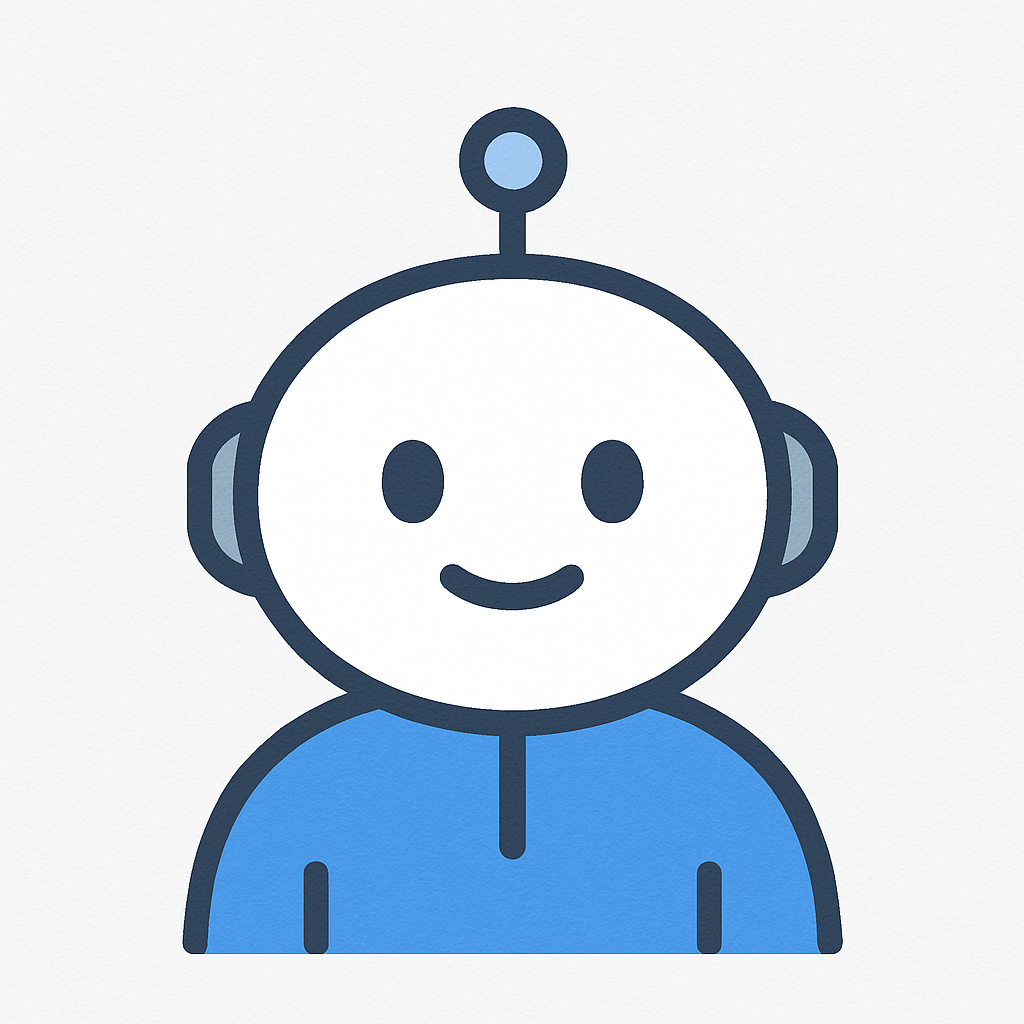
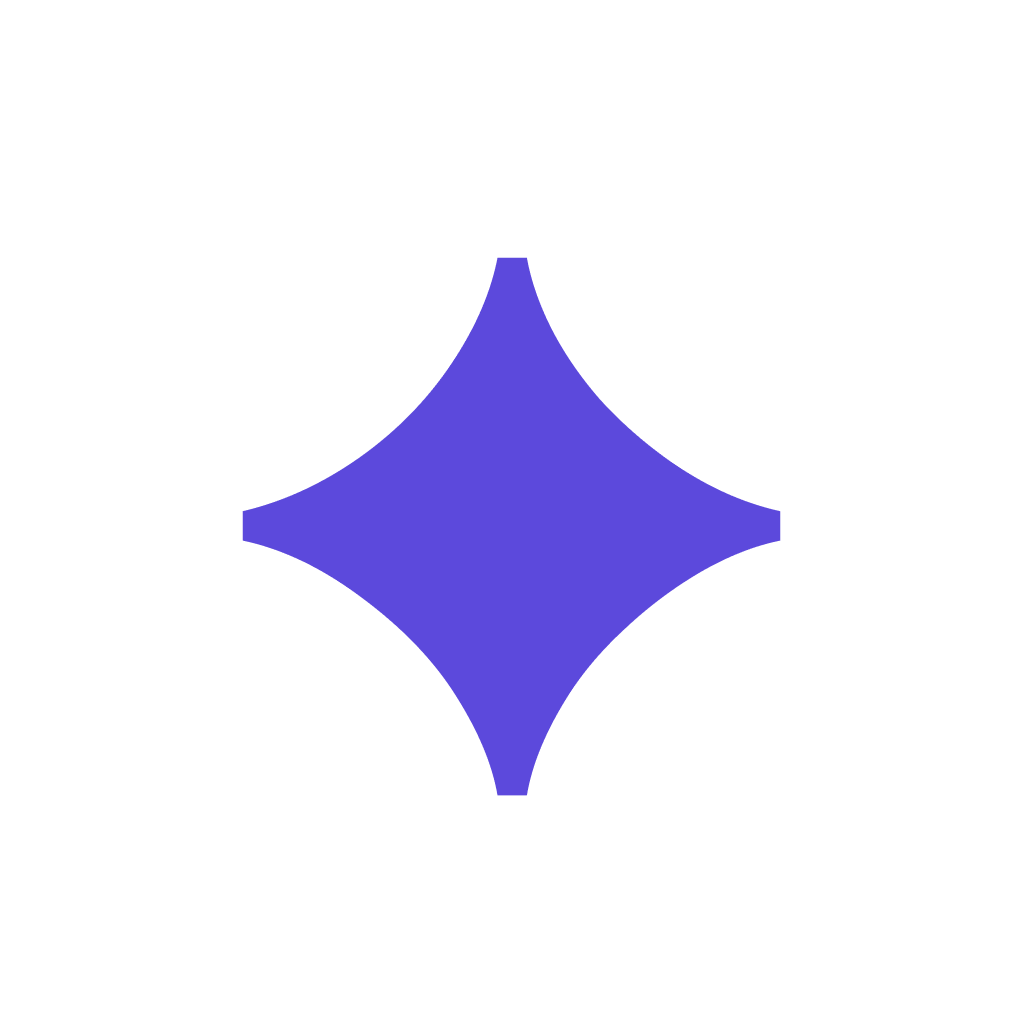
feat: update bot image, enhance chat UI, and improve message handling

Changed region(s): [[0.1562, 0.0938, 0.8438, 0.9375]]

diff --git a/src/App.jsx b/src/App.jsx
@@ -1,9 +1,15 @@
 import "./App.css";
-import BotImg from "/image.png";
 import { useRef, useState, useEffect } from "react";
 import { FontAwesomeIcon } from "@fortawesome/react-fontawesome";
 import { faPaperPlane } from "@fortawesome/free-solid-svg-icons";
 import { CohereClient } from "cohere-ai";
+
+const SUGGESTIONS = [
+  "Explain quantum computing simply",
+  "Write a haiku about coding",
+  "What's the best way to learn React?",
+  "Tell me a fun science fact",
+];
 
 function App() {
   const [input, setInput] = useState("");
@@ -15,12 +21,13 @@ function App() {
   const mesEnd = useRef(null);
 
   useEffect(() => {
-    mesEnd.current.scrollIntoView({ behavior: "smooth" });
+    mesEnd.current?.scrollIntoView({ behavior: "smooth" });
   }, [messages]);
 
   // Enter To Send Message
   const handleKey = async (e) => {
-    if (e.key === "Enter") {
+    if (e.key === "Enter" && !e.shiftKey) {
+      e.preventDefault();
       await handleSend();
     }
   };
@@ -30,12 +37,12 @@ function App() {
     token: import.meta.env.VITE_Api_Key,
   });
 
-  const handleSend = async () => {
-    if (input.trim()) {
-      setMessages([...messages, { text: input, sender: "user" }]);
+  const handleSend = async (overrideText = null) => {
+    const messageText = overrideText ?? input;
+    if (messageText.trim()) {
+      setMessages((prev) => [...prev, { text: messageText, sender: "user" }]);
 
       // Store User Input
-      const userMessage = input;
       setInput("");
 
       try {
@@ -45,7 +52,8 @@ function App() {
         // API Call to Cohere
         const response = await cohere.chat({
           model: "command-a-03-2025",
-          message: input,
+          message: messageText,
+          preamble: "Your name is Nova AI, you are a helpful assistant, you will answer the user's question in a concise manner.",
           maxTokens: 100,
         });
 
@@ -67,75 +75,104 @@ function App() {
     }
   };
 
+  const isWelcome = messages.length === 1;
+
   return (
-    <>
-      <div className="flex items-center justify-center bg-[#F5F5F5] min-h-screen p-4">
-        <div className="relative w-full max-w-[40rem] h-[90vh] md:h-[80vh] bg-white rounded-xl shadow-[0px_0px_50px_-20px_rgba(59,_130,_246,_0.5)]">
-          {/* Header */}
-          <div className="bg-[#4A99E8] flex justify-center h-20 rounded-t-xl p-4">
-            <div className="flex items-center gap-2">
-              <img className="w-12 rounded-full" src={BotImg} alt="Bot" />
-              <h1 className="text-white text-2xl font-bold">ChatBot</h1>
+    <div className="flex flex-col h-screen bg-gray-50 overflow-hidden">
+
+      {/* Top branding bar */}
+      <div className="flex items-center gap-3 px-6 py-4 flex-shrink-0">
+        <div className="w-12 h-12 flex rounded-xl bg-indigo-100 items-center justify-center">
+          <span className="text-[2rem] text-indigo-500 ">✦</span>
+        </div>
+        <div>
+          <h2 className="font-semibold text-gray-800 text-sm leading-tight">Nova AI</h2>
+          <p className="text-xs text-gray-400">Always ready to help</p>
+        </div>
+      </div>
+
+      {/* Main content */}
+      <div className="flex-1 flex flex-col overflow-hidden">
+
+        {isWelcome ? (
+          /* Welcome screen */
+          <div className="flex-1 flex flex-col items-center justify-center px-6">
+            <div className="w-20 h-20 rounded-2xl bg-indigo-100 flex items-center justify-center mb-6 shadow-sm">
+              <span className="text-4xl text-indigo-500 select-none leading-none">✦</span>
+            </div>
+            <h1 className="text-3xl font-bold text-gray-800 mb-2 text-center">How can I help you?</h1>
+            <p className="text-gray-400 text-sm mb-8 text-center">Ask me anything or try a suggestion below</p>
+            <div className="grid grid-cols-2 gap-3 w-full max-w-lg">
+              {SUGGESTIONS.map((s, i) => (
+                <button
+                  key={i}
+                  onClick={() => handleSend(s)}
+                  className="bg-white border border-gray-200 rounded-2xl px-4 py-3 text-sm text-gray-600 text-left hover:border-indigo-300 hover:bg-indigo-50 transition-all duration-150 shadow-sm"
+                >
+                  {s}
+                </button>
+              ))}
             </div>
           </div>
-
-          {/* Chat Container */}
-          <div className="flex flex-col h-[calc(100%-5rem)]">
-            {/* Messages Area */}
-            <div className="Chat-Dashboard flex-1 overflow-y-auto p-4 custom-scrollbar">
+        ) : (
+          /* Chat messages */
+          <div className="flex-1 overflow-y-auto px-4 py-2 custom-scrollbar">
+            <div className="max-w-2xl mx-auto space-y-4 py-2">
               {messages.map((message, index) => (
                 <div
                   key={index}
-                  className={`flex gap-2 ${
-                    message.sender === "user" ? "justify-end" : ""
+                  className={`flex gap-3 ${
+                    message.sender === "user" ? "justify-end" : "justify-start"
                   }`}
                 >
+                  {message.sender === "bot" && (
+                    <div className="w-8 h-8 rounded-xl bg-indigo-100 flex items-center justify-center flex-shrink-0">
+                      <span className="text-2xl text-indigo-500 select-none leading-none">✦</span>
+                    </div>
+                  )}
                   <div
-                    className={`${message.sender === "user" ? "hidden" : ""}`}
-                  >
-                    <img
-                      className="w-[40px] h-[40px] md:w-[50px] md:h-[50px] rounded-full flex items-end"
-                      src={BotImg}
-                      alt="Bot"
-                    />
-                  </div>
-                  <div
-                    className={`${
+                    className={`rounded-2xl px-4 py-3 text-sm max-w-[75%] leading-relaxed ${
                       message.sender === "user"
-                        ? "bg-[#4A99E8] text-white rounded-bl-[10px] rounded-br-[0px]"
-                        : "bg-[#F5F5F5] rounded-bl-[0px] rounded-br-[10px]"
-                    } rounded-tl-[10px] rounded-tr-[10px] p-3 md:p-4 w-auto max-w-[80%] md:max-w-[70%]`}
+                        ? "bg-indigo-500 text-white rounded-br-sm"
+                        : "bg-white border border-gray-200 text-gray-700 rounded-bl-sm shadow-sm"
+                    }`}
                   >
-                    <p className="text-xs md:text-sm">{message.text}</p>
+                    {message.text}
                   </div>
-                  <div ref={mesEnd}></div>
                 </div>
               ))}
-            </div>
-
-            {/* Input Area - Fixed at bottom */}
-            <div className="p-4">
-              <div className="flex gap-2">
-                <input
-                  type="text"
-                  placeholder="Type your message..."
-                  value={input}
-                  onChange={(e) => setInput(e.target.value)}
-                  onKeyDown={handleKey}
-                  className="flex-1 h-12 text-sm outline-none border-2 border-[#4A99E8] rounded-full px-4"
-                />
-                <button
-                  className="bg-[#4A99E8] text-white w-12 h-12 rounded-full flex items-center justify-center flex-shrink-0"
-                  onClick={handleSend}
-                >
-                  <FontAwesomeIcon icon={faPaperPlane} />
-                </button>
-              </div>
+              <div ref={mesEnd} />
             </div>
           </div>
+        )}
+
+        {/* Input area */}
+        <div className="px-2 pb-5 pt-3 flex-shrink-0">
+          <div className="max-w-2xl mx-auto">
+            <div className="flex items-center gap-3 bg-white border-2 border-indigo-200 rounded-2xl px-4 py-3 focus-within:border-indigo-400 transition-colors shadow-sm">
+              <textarea
+                placeholder="Type a message..."
+                value={input}
+                onChange={(e) => setInput(e.target.value)}
+                onKeyDown={handleKey}
+                rows={1}
+                className="flex-1 resize-none outline-none text-sm text-gray-700 placeholder-gray-400 bg-transparent max-h-32"
+              />
+              <button
+                onClick={() => handleSend()}
+                className="w-9 h-9 bg-indigo-500 hover:bg-indigo-600 active:bg-indigo-700 text-white rounded-xl flex items-center justify-center flex-shrink-0 transition-colors"
+              >
+                <FontAwesomeIcon icon={faPaperPlane} className="text-xs" />
+              </button>
+            </div>
+            <p className="text-center text-[10px] text-gray-400 mt-2">
+              Nova AI can make mistakes. Verify important information.
+            </p>
+          </div>
         </div>
+
       </div>
-    </>
+    </div>
   );
 }
 

diff --git a/src/App.css b/src/App.css
@@ -1,21 +1,26 @@
 /* Tailwind CSS */
 @import "tailwindcss";
 
+html, body, #root {
+  height: 100%;
+  margin: 0;
+  padding: 0;
+}
+
 .custom-scrollbar::-webkit-scrollbar {
-  width: 8px;
+  width: 6px;
 }
 
 .custom-scrollbar::-webkit-scrollbar-track {
-  background: #f1f1f1;
-  border-radius: 4px;
+  background: transparent;
 }
 
 .custom-scrollbar::-webkit-scrollbar-thumb {
-  background: #4A99E8;
-  border-radius: 4px;
+  background: #c7d2fe;
+  border-radius: 99px;
 }
 
 .custom-scrollbar::-webkit-scrollbar-thumb:hover {
-  background: #357abd;
+  background: #818cf8;
 }
 
